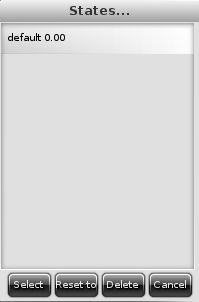
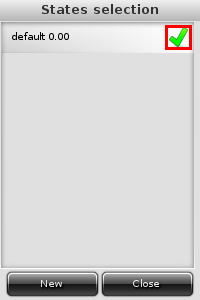
Updating docs. Must now update the image wizard info.
git-svn-id: http://svn.enlightenment.org/svn/e/trunk@47460 7cbeb6ba-43b4-40fd-8cce-4c39aea84d33

Changed region(s): [[0.0, 0.18, 0.995, 1.0], [0.0, 0.0, 1.0, 0.18]]

diff --git a/editje/doc/editje_manual.tex b/editje/doc/editje_manual.tex
@@ -72,20 +72,14 @@ file starts with just one group, named ``main'', with no parts and
 with a default size of 500x500 pixels. Group templates will come as an
 option to start new files, shortly.
 
-%% Editje may also be invoked with one or two arguments, which are,
-%% respectively:
-%% \begin{itemize}
-%%   \item path to file to open and
-%%   \item name of a group, in that edje file, to edit.
-%% \end{itemize}
-
 Editje may also be invoked with one argument, which is the path to a
 file to open. Whether you choose a file in the dialog shown in figure
-\ref{fig:open_file} or by giving its path in the command line, you'll
-get a dialog box asking for a group to edit, between the ones Editje
-finds inside the chosen file (see figure \ref{fig:choose_group}).
+\ref{fig:open_file} or you provide an \texttt{.edc} or \texttt{.edj}
+file path in the command line, you'll get a dialog box asking for a
+group to edit, between the ones Editje finds inside the chosen file
+(see figure \ref{fig:choose_group}).
 
-%FIXME: bad pic! we gotta fix the centering issue asap
+%FIXME: bad pic!
 \begin{figure}[h!]
   \centering
   \includegraphics[width=1.0\textwidth]{images/choose_group.png}
@@ -117,6 +111,15 @@ third page, asking for a name to the group to be created. From there,
 you may desist and go back one page or, if sure, create and start
 editing the fresh new group. This group will also be 500x500 sized and
 have no parts.
+
+Finally, there is a third way of invoking Editje, which is:
+
+\begin{verbatim}
+editje-bin <filename>:<groupname>
+\end{verbatim}
+
+This is a shortcut to have it opened directly on the editing window,
+with the group named ``\texttt{groupname}'' selected for edition.
 
 \section{Editje's Window}
 
@@ -158,6 +161,16 @@ them:
   on the group being left, so make sure you have them saved before
   switching groups.
 
+% undo/redo
+
+  The next two actions do what is expected: \GUIIcon{``Undo''} and
+  \GUIIcon{``Redo''} actions you took while editing your
+  group. Whenever there is no way to undo or redo from a point in the
+  edition, the respective action icon will be displayed grayed, which
+  is what you see in figure \ref{fig:main_window}. At this state,
+  those icons do not respond to mouse clicks. Note that if you switch
+  the group under edition, the undo history will be emptied.
+
   Finally, there's the \GUIIcon{``Run''} action. It will open a window
   with a \emph{live} version of the group being edited. You'll be
   able, then, to interact with it and test its behavior for user input
@@ -173,9 +186,17 @@ them:
 \item[3 -- Mode dependent actions] This region of the main screen is
   populated with action icons accordingly to the \emph{mode} Editje is
   working on (see region 4, which follows). For the initial
-  (``Parts'') mode, this region presents an icon which, when clicked,
-  will raise a box with author and licensing information of the edje
-  editor itself.
+  (``Parts'') mode, this region presents three actions one may take
+  for parts in the group: \GUIIcon{``Cut''}, \GUIIcon{``Copy''} and,
+  naturally, `\GUIIcon{``Paste''}. Both cut and copy actions will take
+  a snapshot of the selected part, if any (the former one will also
+  delete that part). The copy action will insert a \emph{copy} of the
+  last cut/copied part into the group. Note that this copy will have
+  all the properties equal to those of its source, \emph{including
+    geometry} -- it will be placed where the original one was copied
+  from. There is, under ``Parts'' mode, a fourth action icon --
+  \GUIIcon{``About''} -- which, when clicked, will raise a box with
+  author and licensing information of the edje editor itself.
 
 \item[4 -- Mode selection] Editje has \emph{three} modes in which it
   operates:
@@ -211,9 +232,11 @@ them:
 \item[6 -- Group and selected part properties] This is the region on
   the interface where the user will be able to \emph{see and edit} the
   properties of the group being edited and the selected part, if any
-  is selected. There are three collapsable groups of properties
-  there. You can show/hide them by clicking over their title labels,
-  which are:
+  is selected. There may be three collapsable groups of properties
+  there. Figure \ref{fig:main_window} shows only one because the other
+  two are related to the part under selection. If no part is selected,
+  they don't get displayed. You can collapse/expand any of those
+  groups by clicking over their title labels, which are:
 
   \begin{description}
     \item[\GUILabel{``group''}] properties of the group being edited
@@ -472,15 +495,19 @@ besides the \GUIIcon{``+''} one, if a part is selected, which are:
 \begin{description}
 \item[\GUIIcon{upwards arrow}] This is the re-stack \emph{above}
   action.
+
 \item[\GUIIcon{downwards arrow}] This is the re-stack \emph{below}
   action. It does the exact opposite of the former action,
   naturally. If you click on it with \texttt{Rectangle02} selected,
   being it on the state shown in figure \ref{fig:restack_pre}, you'll
   get what is depicted on figure \ref{fig:restack}:
   \texttt{Rectangle01} is now \emph{on top} of the other one.
+
 \item[\GUIIcon{``-''}] This is the part removal action. When clicked,
   the selected part will be totally removed from the group under
-  edition, along with all its states.
+  edition, along with all its states. If any animation exists for the
+  group, this part will be taken away from them (see section
+  \ref{sec:animations}).
 \end{description}
 
 \begin{figure}[h!]
@@ -570,8 +597,8 @@ figure, the cited region looked like figure
 \end{figure}
 
 This is where the selected part's properties which are \emph{bound to
-  a state} are shown and can be edited. The current state under
-edition for the part has its name displayed on region 1 (figure
+  a state} are shown and can be edited. The current state the part
+under edition is in has its name displayed on region 1 (figure
 \ref{fig:part_state_group}). Every new part will have only the default
 state after creation, which is called ``\texttt{default 0.0}'', as the
 reader may know. Except for the default one, states can be renamed by
@@ -588,7 +615,8 @@ respectively, the positioning of the \emph{top-left} and
 \emph{bottom-right} corners of the the part's container. Figure
 \ref{fig:rectangle_rel1rel2} highlights these two points for
 \texttt{Rectangle01}, which coincide with two of the part resizing
-squares.
+squares. The ``current'' label gets updated while a part is being
+resized.
 
 \begin{figure}[h!]
   \centering
@@ -647,7 +675,6 @@ figure \ref{fig:part_state_group}.
 \end{figure}
 
 \subsection{Managing Parts' States}
-%TODO: being worked on, let it outdated, for now.
 
 The ``part state'' collapsable group, seen in figure
 \ref{fig:part_state_group}, has a region which wasn't cited yet: 2. If
@@ -661,34 +688,46 @@ you click on that icon, you'll get the dialog box shown in figure
   \label{fig:states_dialog}
 \end{figure}
 
-Before returning to the actions there available, we'll create a
-\emph{new state} to \texttt{Rectangle01}, being the default one the
-one we get just after adding it to the group.
+That list displays the names of all the states the selected part has.
+The state under which the selected part is being displayed is marked
+with a tick sign, highlighted in red in figure
+\ref{fig:states_dialog}.
 
-%FIXME: text entry renames the state, now
-Region 1 of figure \ref{fig:part_state_group}, besides showing the
-current state's name for a part, is a text entry used to \emph{create}
-new states. If you click on it, edit the text changing
-\GUIEditable{``default''} to, say, \GUIEditable{``newstate''}, you'll
-have just \emph{cloned} the former into the latter. Click again over
-the icon in region 5 and you'll see what is depicted on figure
-\ref{fig:states_dialog_newstate}.
+The \GUIButton{``New''} button you see on that box will, naturally,
+lead to the creation of a new state for the part. An entry will be
+displayed, asking for a name for it (containing a previous
+suggestion). Type it in and hit the button \GUIButton{``Add''} to have
+it created. You'll see your part with the same (state bound)
+properties it had, because this new state is a \emph{copy of the one
+  the part was at} prior to its creation. Check the label seen on
+region 1 of figure \ref{fig:part_state_group}, though, and you'll see
+the name of the just created state displayed. Customize its properties
+as you wish, then.
+
+Starting from the state where we have our default
+``\texttt{Rectangle01}'' (figure \ref{fig:new_rectangle01}), let's
+create another state, for which we change the red channel of the
+part's color to 255, making it transparent yellow (see figure
+\ref{fig:new_state}).
 
 \begin{figure}[h!]
   \centering
-  \includegraphics[width=0.28\textwidth]{images/states_box_newstate.png}
-  \caption{Note the recently added state, ``newstate''}
-  \label{fig:states_dialog_newstate}
+  \includegraphics[width=1.0\textwidth]{images/new_state.png}
+  \caption{A new state created, having a property changed}
+  \label{fig:new_state}
 \end{figure}
 
-You may, now, change the state dependent properties of the selected
-part as you wish. For switching between states of a part, use the
-\GUIButton{``Select''} button seen on figure
-\ref{fig:states_dialog}. The \GUIButton{``Reset to''} button, on the
-same figure, will set the properties seen on the current state to
-those of the state selected on the list of that dialog. The
-\GUIButton{``Delete''} one will, naturally, delete the current state
-and \GUIButton{``Cancel''} will close that dialog.
+Then, click on the state selection icon again and select, in the list,
+the state ``\texttt{default 0.0}''. You'll be presented with the
+dialog seen on figure \ref{fig:state_actions}. The \GUIButton{``Change
+  to''} button, naturally, is the way to switch to the selected state.
+\GUIButton{``Reset to''} will copy all the properties of the selected
+state into the same ones of the \emph{current} one. If you choose to
+click on it from the example we suggested for this section, you'll see
+state ``\texttt{default01 0.0}'' have its color property reset to
+transparent green. Finally, \GUIButton{``Delete''} will remove the
+selected state (what is forbidden for the default one, thus the
+inactive state for it when ``\texttt{default 0.0}'' is selected).
 
 \section{Types of Parts and their Particularities}
 
@@ -1075,7 +1114,7 @@ figure, being them:
 %   \end{itemize}
 
 \section{Animations}
-\label{animation_editing}
+\label{sec:animations}
 
 Animations are programs ran one after another, setting the
 corresponding state to the affected parts. This is handled within
